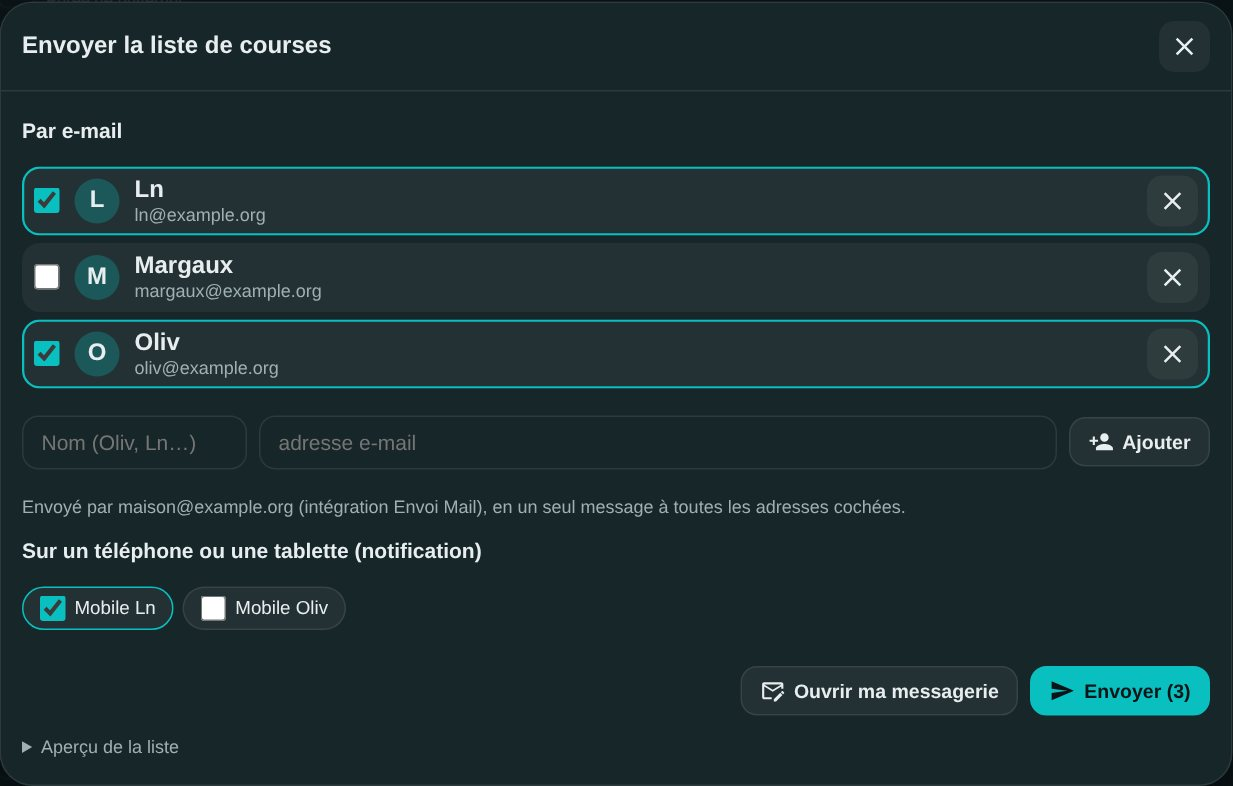
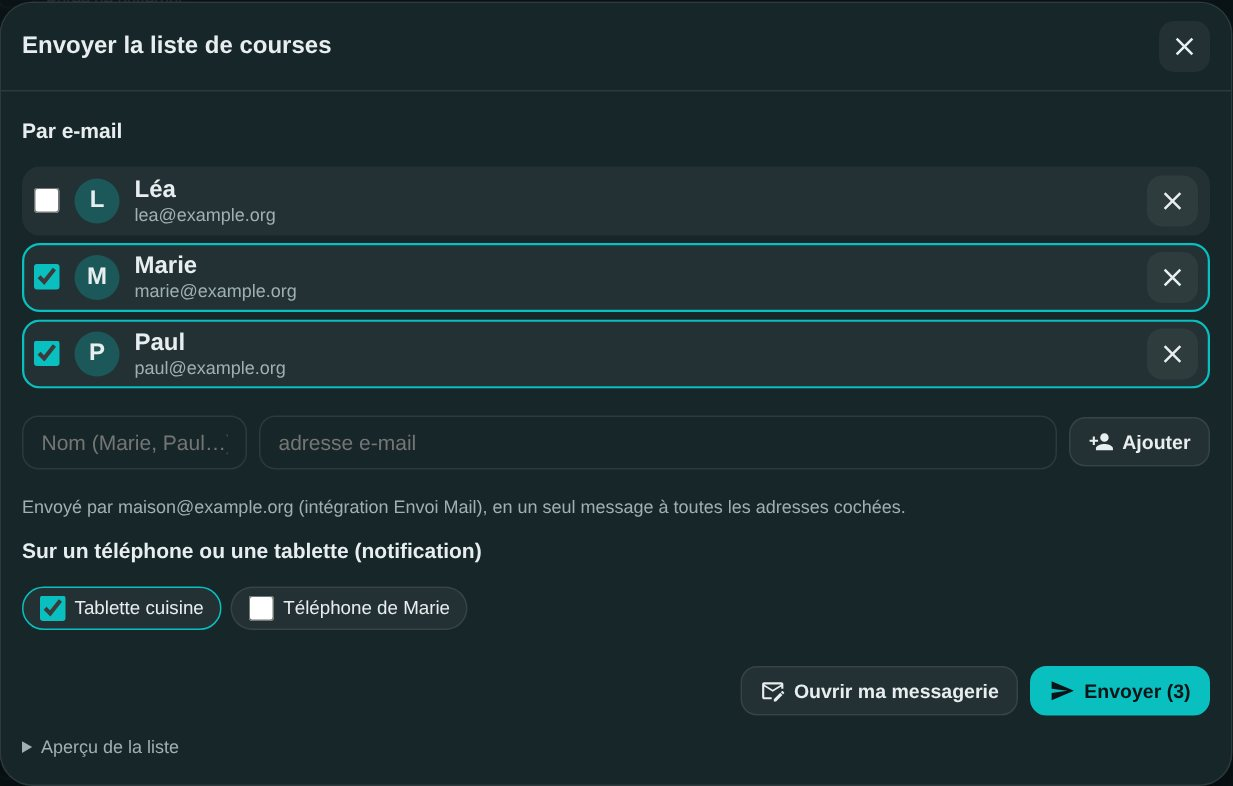
Add files via upload

diff --git a/custom_components/holm_mymenu/www/holm-mymenu-card.js b/custom_components/holm_mymenu/www/holm-mymenu-card.js
@@ -5,7 +5,7 @@
  *   today_slots: [midi, soir]   list_height: 620   show_frame: false
  */
 (() => {
-const VERSION = "1.1.2";
+const VERSION = "1.1.3";
 const esc = (s) => String(s == null ? "" : s).replace(/[&<>"']/g, (c) => ({ "&": "&amp;", "<": "&lt;", ">": "&gt;", '"': "&quot;", "'": "&#39;" }[c]));
 const iso = (d) => `${d.getFullYear()}-${String(d.getMonth() + 1).padStart(2, "0")}-${String(d.getDate()).padStart(2, "0")}`;
 const addDays = (d, n) => { const x = new Date(d); x.setDate(x.getDate() + n); return x; };
@@ -367,7 +367,7 @@ class HolmMyMenuCard extends HTMLElement {
             <span class="av">${esc(c.name.slice(0, 1).toUpperCase())}</span><span class="cn"><b>${esc(c.name)}</b><small>${esc(c.email)}</small></span>
             <button class="ib" data-del="${c.id}" title="Retirer du carnet"><ha-icon icon="mdi:close"></ha-icon></button></label>`).join("")}</div>`
           : `<div class="muted">Votre carnet d'adresses est vide : ajoutez les personnes à qui envoyer la liste.</div>`}
-        <div class="row addc"><input class="f cnm" placeholder="Nom (Oliv, Ln…)"><input class="f grow cem" type="email" placeholder="adresse e-mail"><button class="pill" data-x="addc"><ha-icon icon="mdi:account-plus"></ha-icon>Ajouter</button></div>
+        <div class="row addc"><input class="f cnm" placeholder="Nom (Marie, Paul…)"><input class="f grow cem" type="email" placeholder="adresse e-mail"><button class="pill" data-x="addc"><ha-icon icon="mdi:account-plus"></ha-icon>Ajouter</button></div>
         ${info && !info.smtp ? `<div class="warn">Aucune intégration SMTP n'est configurée dans Home Assistant : utilisez « Ouvrir ma messagerie », ou ajoutez l'intégration SMTP pour envoyer directement.</div>` : info ? `<div class="muted small2">Envoyé par ${esc(info.sender)} (intégration ${esc(info.name)}), en un seul message à toutes les adresses cochées.</div>` : ""}
         ${devs.length ? `<div class="sh">Sur un téléphone ou une tablette (notification)</div>
           <div class="dlist">${devs.map(([e, n]) => `<label class="chip ${selE.has(e) ? "on" : ""}"><input type="checkbox" data-e="${e}" ${selE.has(e) ? "checked" : ""}>${esc(n)}</label>`).join("")}</div>` : ""}

diff --git a/custom_components/holm_mymenu/store.py b/custom_components/holm_mymenu/store.py
@@ -15,7 +15,7 @@ from homeassistant.core import HomeAssistant, callback
 from homeassistant.helpers.dispatcher import async_dispatcher_send
 from homeassistant.helpers.storage import Store
 
-from .const import AISLES, SIGNAL_UPDATED, SLOTS, STORAGE_KEY, STORAGE_VERSION
+from .const import AISLES, MEDIA_PATH, SIGNAL_UPDATED, SLOTS, STORAGE_KEY, STORAGE_VERSION
 from .parser import guess_aisle, ingredient_key, parse_line, pretty_qty, singular_name, to_base
 
 _LOGGER = logging.getLogger(__name__)
@@ -41,13 +41,29 @@ class MenuStore:
             for k in self.data:
                 if k in d:
                     self.data[k] = d[k]
-        dirty = False
+        dirty = self._migrate_media()
         if not self.data["history"] and self.data["plan"]:
             self._history_from_plan()
             dirty = True
         self._clean_plan()
         if self._repair_units() or dirty:
             self.changed("all")
+
+    def _migrate_media(self) -> bool:
+        """Anciennes adresses /local/holm_mymenu/… → /holm_mymenu_media/… (indépendant de /local)."""
+        changed = False
+        for coll in ("recipes", "ingredients"):
+            for o in self.data[coll].values():
+                img = o.get("image") or ""
+                if img.startswith("/local/holm_mymenu/"):
+                    o["image"] = MEDIA_PATH + img[len("/local/holm_mymenu"):]
+                    changed = True
+        for it in self.data["shopping"].get("items", []):
+            img = it.get("image") or ""
+            if img.startswith("/local/holm_mymenu/"):
+                it["image"] = MEDIA_PATH + img[len("/local/holm_mymenu"):]
+                changed = True
+        return changed
 
     # ---------------- historique (recettes les plus planifiées) ----------------
     def _history_from_plan(self) -> None:
@@ -94,7 +110,7 @@ class MenuStore:
             with open(os.path.join(self._img_dir, name), "wb") as f:
                 f.write(body)
         await self.hass.async_add_executor_job(_write)
-        obj["image"] = f"/local/holm_mymenu/{name}?v={int(time.time())}"
+        obj["image"] = f"{MEDIA_PATH}/{name}?v={int(time.time())}"
         obj.pop("image_remote", None)
 
     _BAD_UNITS = {"gram", "grams", "kilogram", "kilograms", "liter", "liters", "milliliter", "milliliters",
@@ -302,7 +318,7 @@ class MenuStore:
                 f.write(body)
         await self.hass.async_add_executor_job(_write)
         rec["image_remote"] = url
-        rec["image"] = f"/local/holm_mymenu/{name}?v={int(time.time())}"
+        rec["image"] = f"{MEDIA_PATH}/{name}?v={int(time.time())}"
 
     # ---------------- planning ----------------
     def set_slot(self, day: str, slot: str, entries: list[dict], track: bool = True) -> None:

diff --git a/custom_components/holm_mymenu/__init__.py b/custom_components/holm_mymenu/__init__.py
@@ -11,7 +11,7 @@ from homeassistant.config_entries import ConfigEntry
 from homeassistant.const import Platform
 from homeassistant.core import HomeAssistant
 
-from .const import CARD_URL, CONF_SERVINGS, DOMAIN, STATIC_PATH, VERSION
+from .const import CARD_URL, CONF_SERVINGS, DOMAIN, MEDIA_PATH, STATIC_PATH, VERSION
 from .store import MenuStore
 from .websocket import async_register
 
@@ -26,9 +26,14 @@ async def async_setup_entry(hass: HomeAssistant, entry: ConfigEntry) -> bool:
     hass.data[DOMAIN] = {"store": store, "options": dict(entry.options)}
     if first:
         async_register(hass)
-        await hass.http.async_register_static_paths(
-            [StaticPathConfig(STATIC_PATH, os.path.join(os.path.dirname(__file__), "www"), False)]
-        )
+        # dossier des photos : créé ici et servi par l'intégration elle-même, pour fonctionner
+        # même si config/www n'existait pas au démarrage de Home Assistant (/local inactif)
+        media = hass.config.path("www", "holm_mymenu")
+        await hass.async_add_executor_job(lambda: os.makedirs(media, exist_ok=True))
+        await hass.http.async_register_static_paths([
+            StaticPathConfig(STATIC_PATH, os.path.join(os.path.dirname(__file__), "www"), False),
+            StaticPathConfig(MEDIA_PATH, media, False),
+        ])
         card = os.path.join(os.path.dirname(__file__), "www", "holm-mymenu-card.js")
         digest = await hass.async_add_executor_job(_file_hash, card)
         url = f"{CARD_URL}?v={VERSION}-{digest}"

diff --git a/custom_components/holm_mymenu/const.py b/custom_components/holm_mymenu/const.py
@@ -1,11 +1,12 @@
 """Constantes de HOLM My Menu."""
 DOMAIN = "holm_mymenu"
-VERSION = "1.1.2"
+VERSION = "1.1.3"
 STORAGE_KEY = "holm_mymenu"
 STORAGE_VERSION = 1
 SLOTS = ("midi", "soir")
 CARD_URL = "/holm_mymenu_static/holm-mymenu-card.js"
 STATIC_PATH = "/holm_mymenu_static"
+MEDIA_PATH = "/holm_mymenu_media"  # photos des recettes et ingrédients (config/www/holm_mymenu)
 USER_AGENT = "HOLM-MyMenu/1.0 (Home Assistant; https://github.com/kaaribou/holm-mymenu)"
 CONF_MEALIE_URL = "mealie_url"
 CONF_MEALIE_TOKEN = "mealie_token"

diff --git a/README.md b/README.md
@@ -10,6 +10,8 @@ HOLM My Menu est une intégration **Home Assistant** pensée comme un Mealie en 
 
 > ✨ **Une seule carte pour tout faire, zéro YAML.** La carte est fournie par l'intégration : aucune ressource Lovelace à ajouter.
 
+![Les recettes](docs/images/apercu.jpg)
+
 ![La semaine](docs/images/semaine.jpg)
 
 | Une recette | Un repas | Un produit |
@@ -89,7 +91,7 @@ Copiez le dossier `custom_components/holm_mymenu` dans `/config/custom_component
    - **Adresse de Mealie** (ex. `http://192.168.1.10:9925`) et **jeton d'API Mealie** (Mealie → Profil → Jetons d'API), pour importer vos recettes Mealie ;
    - le nombre de personnes par défaut peut être changé à tout moment.
 
-Tout est stocké localement dans Home Assistant (`.storage/holm_mymenu`), et les photos dans `www/holm_mymenu/`.
+Tout est stocké localement dans Home Assistant (`.storage/holm_mymenu`), et les photos dans `www/holm_mymenu/`. Ce dossier est créé par l'intégration et ses photos sont servies par elle-même : rien à préparer, et elles s'affichent même si le dossier `www` n'existait pas encore.
 
 ---
 
@@ -188,7 +190,7 @@ Dans la fiche d'une recette, vous pouvez :
 - Choisissez la semaine et touchez **Générer** : les ingrédients des repas prévus sont mis à l'échelle du nombre de personnes, additionnés et rangés par rayon.
 - Les articles déjà cochés et ceux ajoutés à la main sont conservés quand vous régénérez la liste.
 - **Envoyer par mail** ouvre la fenêtre d'envoi :
-  - un **carnet d'adresses** (Oliv, Ln, Margaux…) : cochez les personnes, ajoutez-en ou retirez-en ; vos choix sont retenus pour la fois suivante ;
+  - un **carnet d'adresses** (Marie, Paul, Léa…) : cochez les personnes, ajoutez-en ou retirez-en ; vos choix sont retenus pour la fois suivante ;
   - **un seul e-mail** part vers toutes les adresses cochées, mis en forme par rayon avec une case à cocher par article. Il utilise les réglages de votre intégration **SMTP** de Home Assistant (serveur, identifiants, expéditeur) : rien à ressaisir, et aucune adresse à déclarer comme destinataire SMTP ;
   - les **téléphones et tablettes** (entités de notification) peuvent aussi être cochés : ils reçoivent la liste en notification ;
   - **Ouvrir ma messagerie** prépare le même message dans la messagerie de l'appareil, avec les adresses cochées.

diff --git a/CHANGELOG.md b/CHANGELOG.md
@@ -1,5 +1,9 @@
 # Changelog
 
+## 1.1.3
+
+- Le dossier des photos `www/holm_mymenu/` est créé dès l'installation, et les photos sont servies par l'intégration elle-même (`/holm_mymenu_media/…`) : elles s'affichent même si le dossier `www` n'existait pas au démarrage de Home Assistant. Les adresses déjà enregistrées sont converties automatiquement.
+
 ## 1.1.2
 
 - Sur téléphone et tablette, les listes de recettes et d'ingrédients n'ont plus de zone de défilement imbriquée : la page défile normalement au doigt, et la suite se charge à l'approche du bas. Sur ordinateur, la zone de défilement reste, et la page reprend la main une fois en haut ou en bas de la liste.
